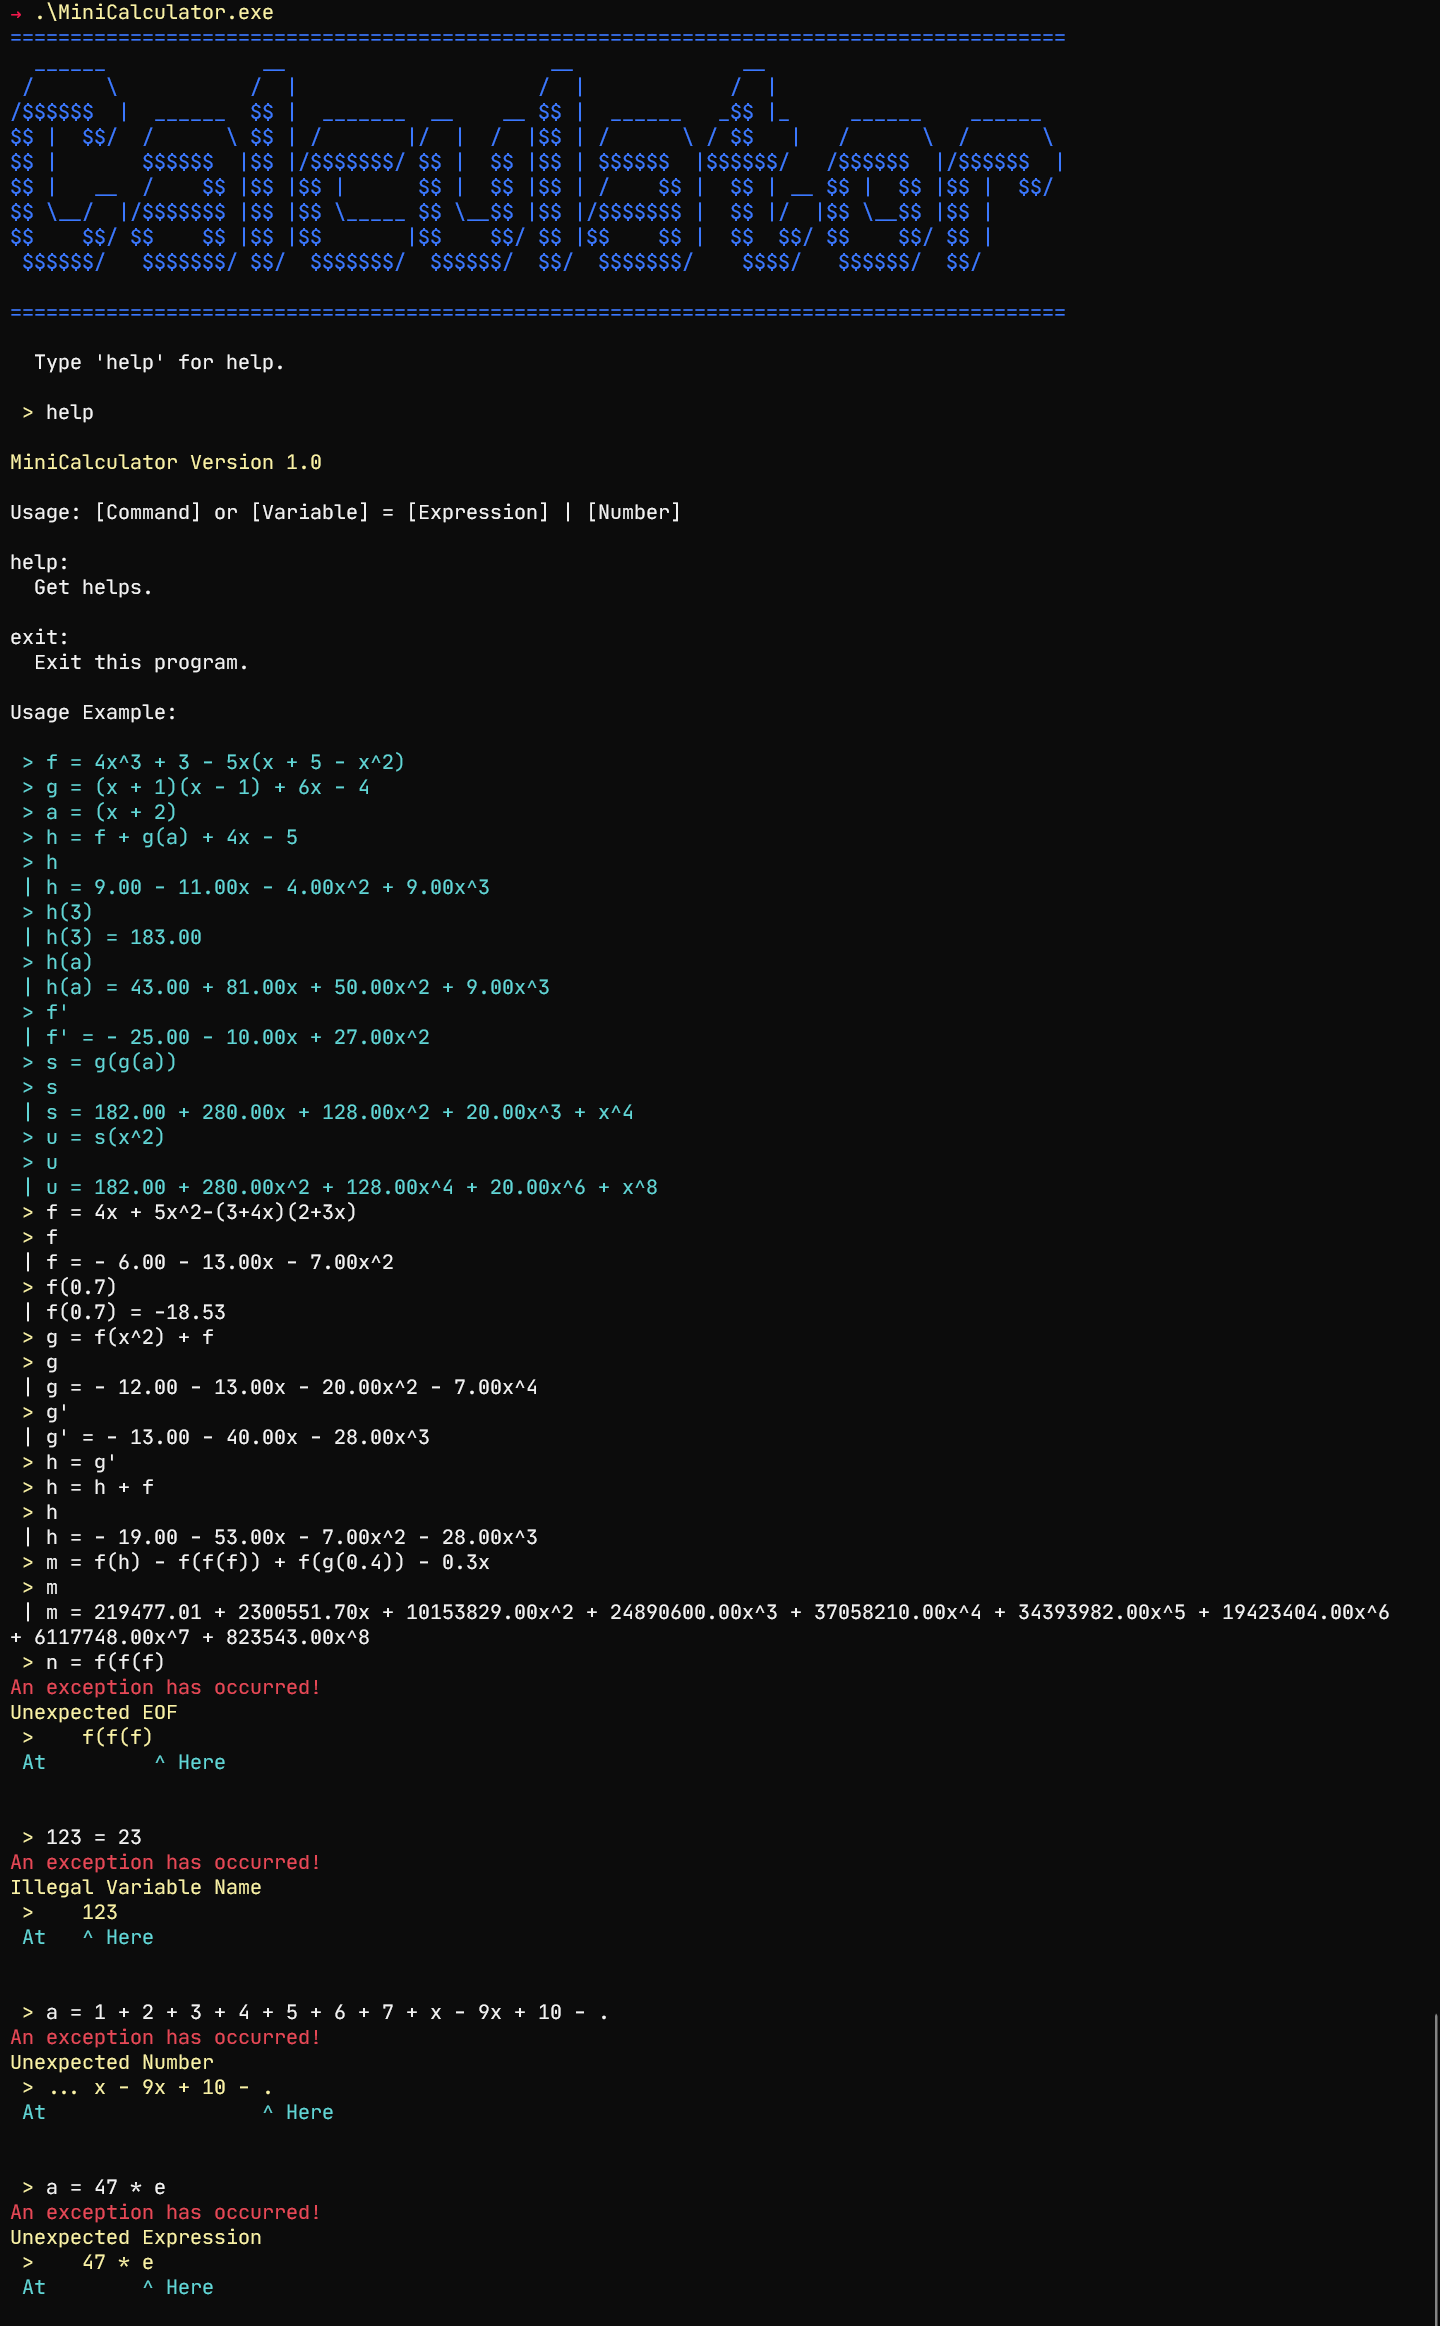
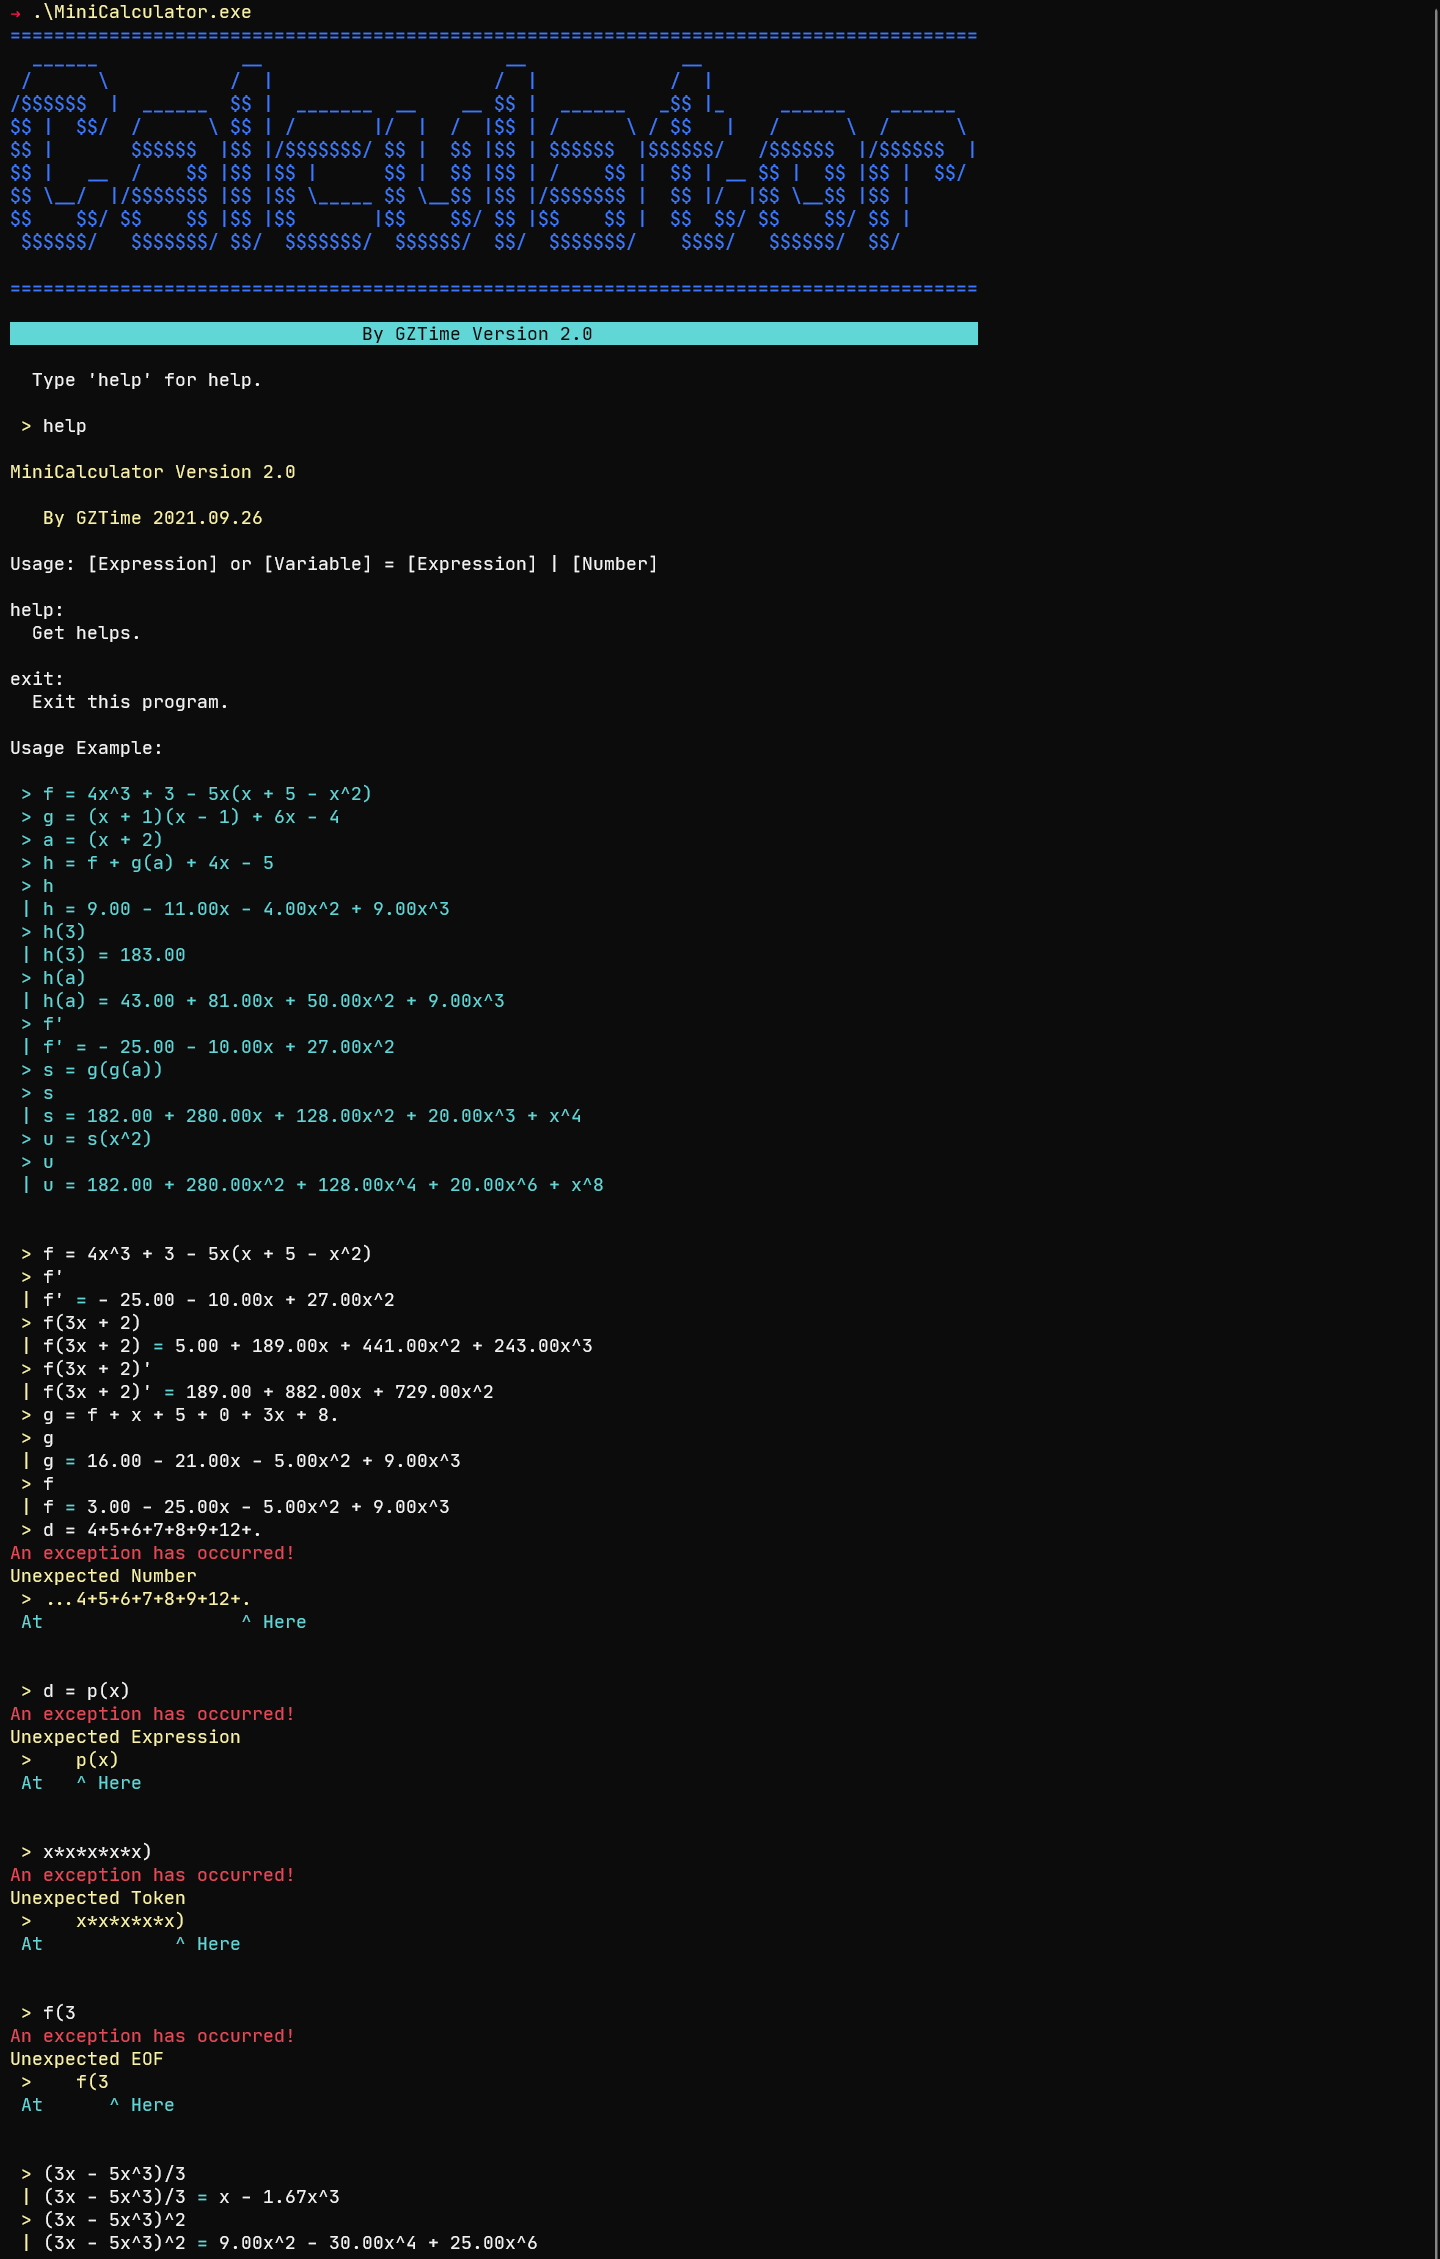
Update

diff --git a/src/Utils.cpp b/src/Utils.cpp
@@ -116,7 +116,11 @@ namespace MiniCalculator
 			" > a",
 			" | a = - 45.00x - 24.00x^2",
 			" > a'''''",
-			" | a''''' = 0.00"
+			" | a''''' = 0.00",
+			" > (3x - 5x^3)/3",
+			" | (3x - 5x^3)/3 = x - 1.67x^3",
+			" > (3x - 5x^3)^2",
+			" | (3x - 5x^3)^2 = 9.00x^2 - 30.00x^4 + 25.00x^6",
 		};
 		for (auto& str : _strs)
 			PrintLine(str);
